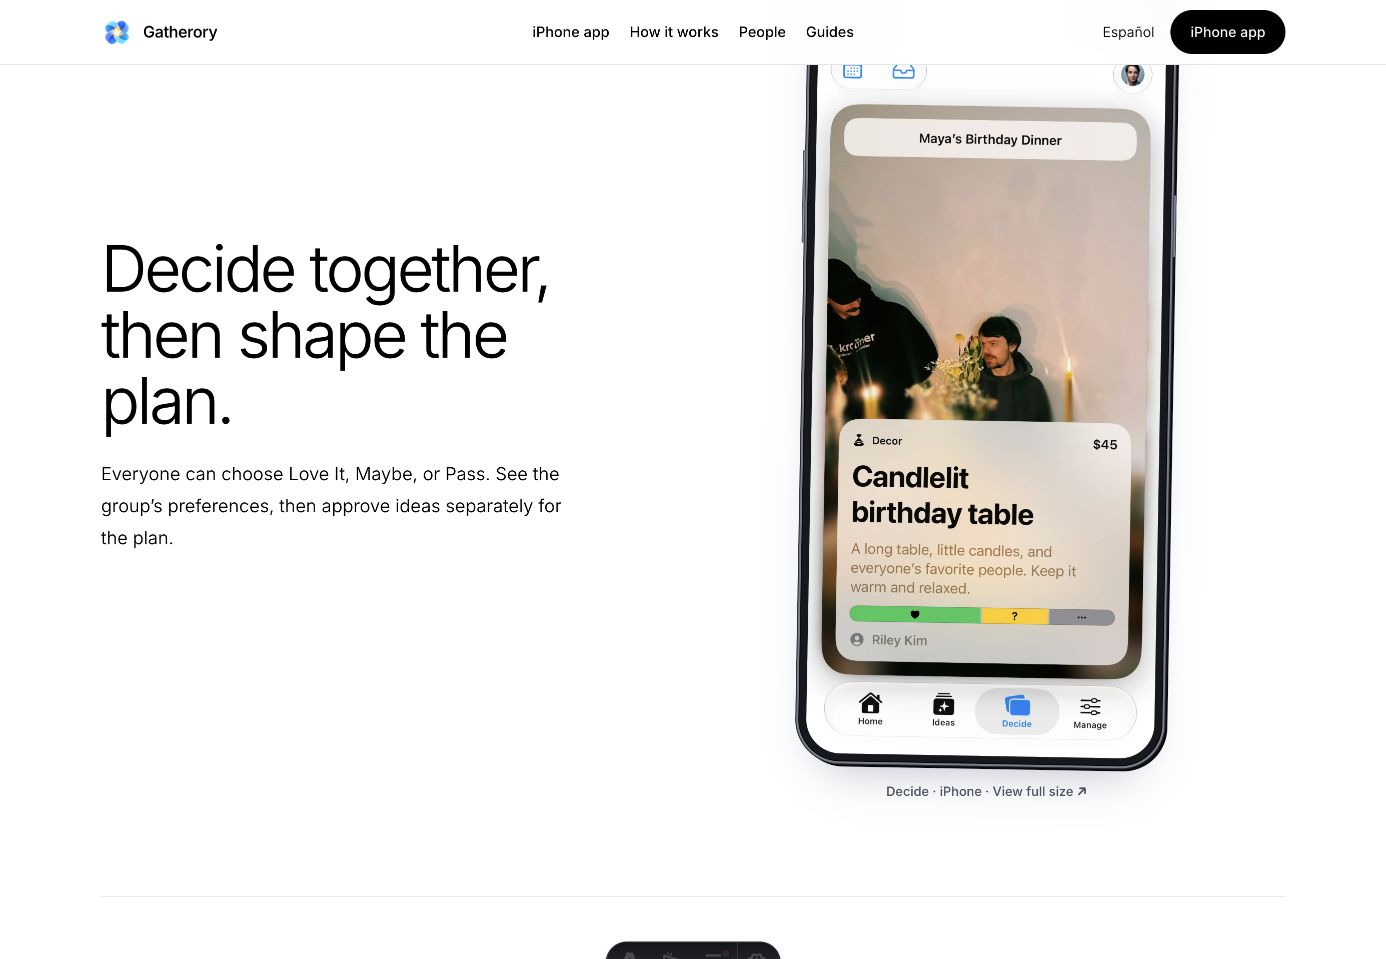
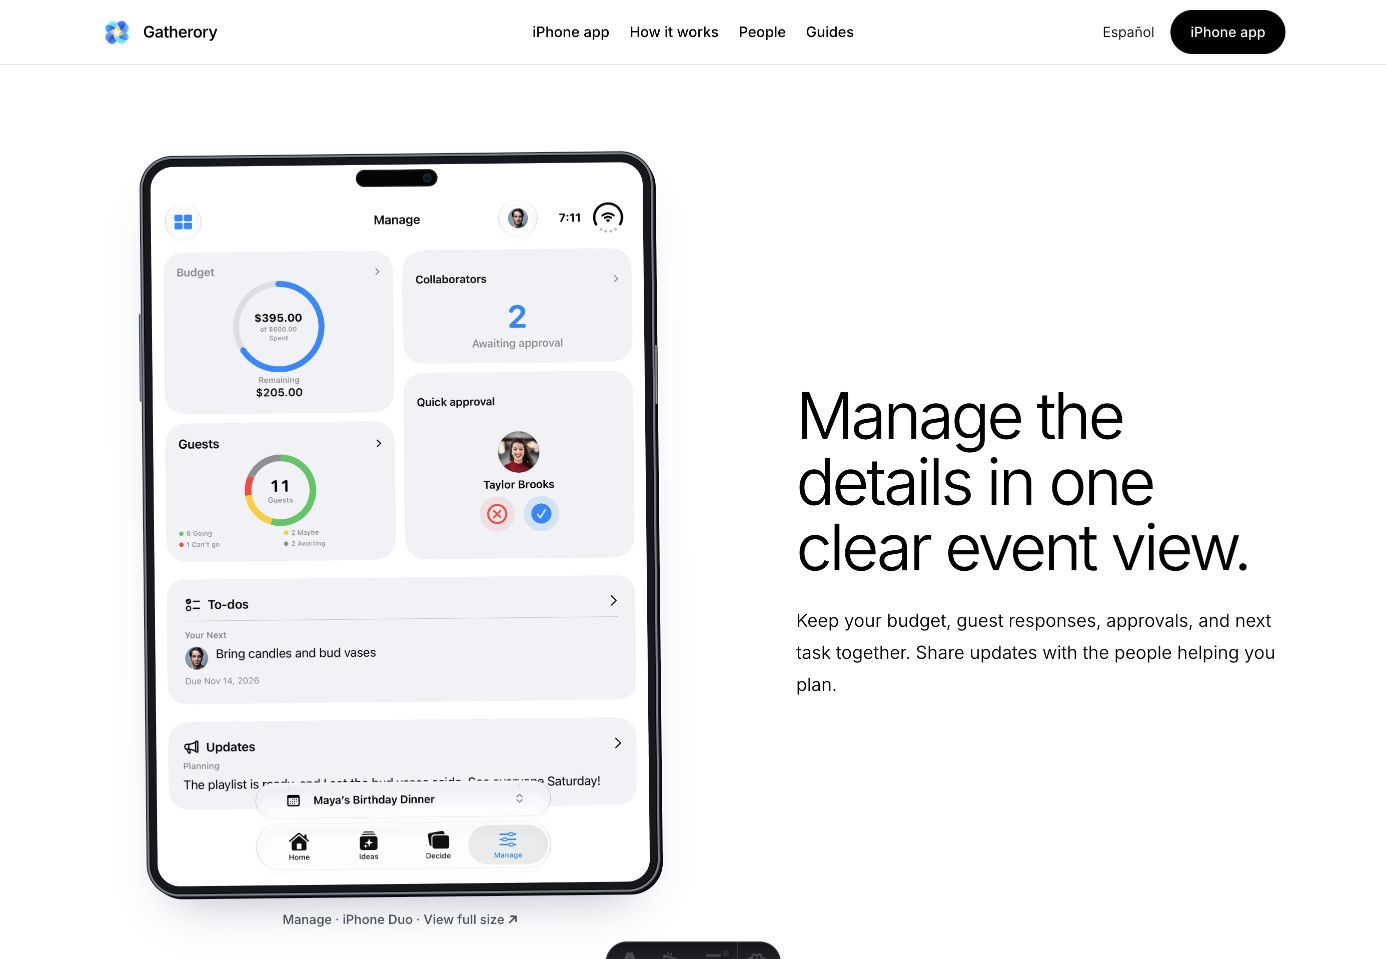
Add camera cutouts to website device mockups

Changed region(s): [[0.5584, 0.0605, 0.9307, 0.8467], [0.062, 0.1512, 0.4964, 0.9677], [0.4033, 0.7862, 0.4343, 0.8165]]

diff --git a/src/lib/components/landing/device-pair.svelte b/src/lib/components/landing/device-pair.svelte
@@ -1,4 +1,5 @@
 <script lang="ts">
+	import DeviceNotch from "./device-notch.svelte";
 	let {
 		phoneSrc,
 		phoneAlt,
@@ -19,12 +20,14 @@
 <div class="device-pair">
 	<figure class="device-item phone-item">
 		<div class="phone-frame">
+			<DeviceNotch />
 			<img src={phoneSrc} alt={phoneAlt} width="1206" height="2622" />
 		</div>
 		<figcaption>{phoneLabel}</figcaption>
 	</figure>
 	<figure class="device-item duo-item">
 		<div class="duo-frame">
+			<DeviceNotch duo />
 			<img src={duoSrc} alt={duoAlt} width="2853" height="2007" />
 		</div>
 		<figcaption>{duoLabel}</figcaption>
@@ -35,10 +38,10 @@
 	.device-pair { display: grid; grid-template-columns: minmax(0, .43fr) minmax(0, 1fr); align-items: center; gap: clamp(.5rem, 2vw, 1.25rem); width: min(100%, 34rem); margin-inline: auto; }
 	.device-item { display: grid; min-width: 0; justify-items: center; gap: .75rem; margin: 0; }
 	.device-item figcaption { color: #4f5663; font-size: .75rem; font-weight: 520; line-height: 1.25; text-align: center; }
-	.phone-frame { width: min(100%, 9rem); padding: 5px; overflow: hidden; border: 1px solid #303238; border-radius: 1.5rem; background: #1c1d21; box-shadow: 0 18px 36px -18px #17284760; transform: rotate(2deg); }
+	.phone-frame { position: relative; width: min(100%, 9rem); padding: 5px; overflow: hidden; border: 1px solid #303238; border-radius: 1.5rem; background: #1c1d21; box-shadow: 0 18px 36px -18px #17284760; transform: rotate(2deg); }
 	.phone-frame img { display: block; width: 100%; height: auto; border-radius: 1.2rem; background: #f8f8f8; }
-	.duo-frame { width: 100%; padding: 6px; overflow: hidden; border: 1px solid #303238; border-radius: 1.15rem; background: #1c1d21; box-shadow: 0 18px 36px -18px #17284760; transform: rotate(-1deg); }
-	.duo-frame img { display: block; width: 100%; height: auto; border-radius: .7rem; background: #f8f8f8; }
+	.duo-frame { position: relative; width: 100%; padding: 6px; overflow: hidden; border: 1px solid #303238; border-radius: 1.15rem; background: #1c1d21; box-shadow: 0 18px 36px -18px #17284760; transform: rotate(-1deg); }
+	.duo-frame img { padding-top: 4%; display: block; width: 100%; height: auto; border-radius: .7rem; background: #f8f8f8; }
 	@media (max-width: 380px) {
 		.device-pair { grid-template-columns: minmax(0, .4fr) minmax(0, 1fr); gap: .45rem; }
 		.device-item figcaption { font-size: .68rem; }

diff --git a/src/lib/components/landing/product-walkthrough.svelte b/src/lib/components/landing/product-walkthrough.svelte
@@ -1,5 +1,6 @@
 <script lang="ts">
 	import type { SiteCopy } from "@/i18n";
+	import DeviceNotch from "./device-notch.svelte";
 
 	let { copy } = $props<{ copy: SiteCopy["landing"] }>();
 	const features = $derived([
@@ -37,6 +38,7 @@
 			</div>
 			<figure class="feature-visual" class:feature-duo={feature.isDuo}>
 				<a class="screenshot-stage" href={feature.image} target="_blank" rel="noopener noreferrer" aria-label={`${feature.device}: ${copy.viewFullSize}`}>
+					<DeviceNotch duo={feature.isDuo} />
 					<img src={feature.image} alt={feature.alt} width={feature.width} height={feature.height} loading="lazy" decoding="async" />
 				</a>
 				<figcaption>{feature.device} · {copy.viewFullSize} <span aria-hidden="true">↗</span></figcaption>
@@ -58,7 +60,7 @@
 	.screenshot-stage::after { top: 26%; right: -5px; height: 8%; }
 	.feature-duo .screenshot-stage { width: min(100%, 32rem); border-radius: 2rem; transform: rotate(-.6deg); }
 	.screenshot-stage img { display: block; width: 100%; height: auto; border-radius: 2.15rem; background: #fff; }
-	.feature-duo .screenshot-stage img { border-radius: 1.4rem; }
+	.feature-duo .screenshot-stage img { padding-top: 4%; border-radius: 1.4rem; }
 	.screenshot-stage:focus-visible { outline: 3px solid var(--brand-blue); outline-offset: 6px; }
 	.feature-visual figcaption { color: #4f5663; font-size: .8rem; font-weight: 520; line-height: 1.4; }
 	.feature-reversed { grid-template-columns: minmax(0, 1.1fr) minmax(0, .9fr); }

diff --git a/src/lib/components/landing/iphone-page.svelte b/src/lib/components/landing/iphone-page.svelte
@@ -1,4 +1,5 @@
 <script lang="ts">
+	import DeviceNotch from "./device-notch.svelte";
 	import { IconArrowDown, IconArrowRight, IconWifiOff } from "@tabler/icons-svelte";
 	import type { IphoneCopy } from "@/lib/iphone-copy";
 	import DevicePair from "./device-pair.svelte";
@@ -71,6 +72,7 @@
 						{#each copy.steps as step, index}
 							<figure hidden={activeStep !== index}>
 								<div class="phone-frame preview-phone">
+									<DeviceNotch />
 									<img src={`/images/ios/${step.key}.webp`} alt={step.alt} width="1206" height="2622" loading="lazy" />
 								</div>
 								<figcaption class="mt-5 text-center text-sm font-[480]">{step.label}</figcaption>

diff --git a/src/lib/components/landing/device-notch.svelte b/src/lib/components/landing/device-notch.svelte
@@ -1,0 +1,11 @@
+<script lang="ts">
+	let { duo = false } = $props<{ duo?: boolean }>();
+</script>
+
+<span class="device-notch" class:duo aria-hidden="true"></span>
+
+<style>
+	.device-notch { position: absolute; z-index: 1; top: 1.8%; left: 50%; width: 27%; max-width: 7rem; aspect-ratio: 4.8; transform: translateX(-50%); border-radius: 999px; background: #050506; box-shadow: inset 0 0 0 1px #202126; pointer-events: none; }
+	.device-notch::after { content: ""; position: absolute; top: 25%; right: 7%; height: 50%; aspect-ratio: 1; border-radius: 50%; background: #101725; box-shadow: inset 0 0 0 1px #242a35; }
+	.duo { width: 16%; }
+</style>

diff --git a/docs/launch-prototype.md b/docs/launch-prototype.md
@@ -46,7 +46,8 @@ native floating event picker. The budget card has more vertical room to keep
 the remaining amount clear of the chart. Both walkthrough images preserve their full content
 and can open at full size; compact mobile layouts put the copy before the image.
 The walkthrough previews use dark phone outlines with metal rims, side buttons,
-and subtle desktop tilt. Mobile previews stay upright, and the frame treatment
+and subtle desktop tilt. A shared decorative camera cutout also appears in the
+hero pairs and iPhone gallery. Duo frames reserve headroom for it above the app. Mobile previews stay upright, and the frame treatment
 does not alter the native image files or their aspect ratios.
 The iPhone page retains its Home hero and the “Drinks & catch-ups” invitation
 as the Events preview, with RSVP choices in one horizontal row. Shared planning
